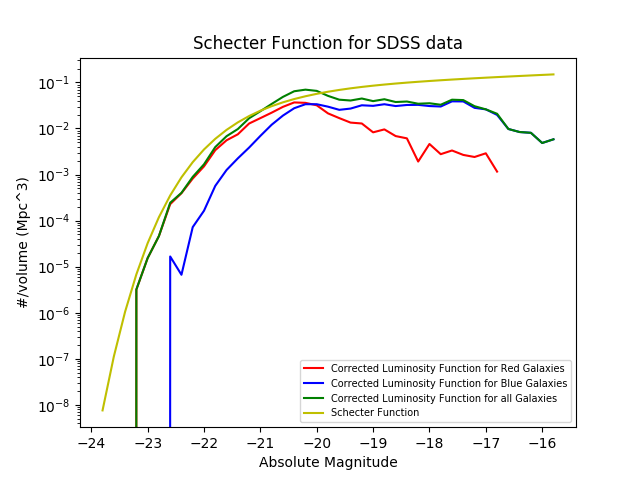
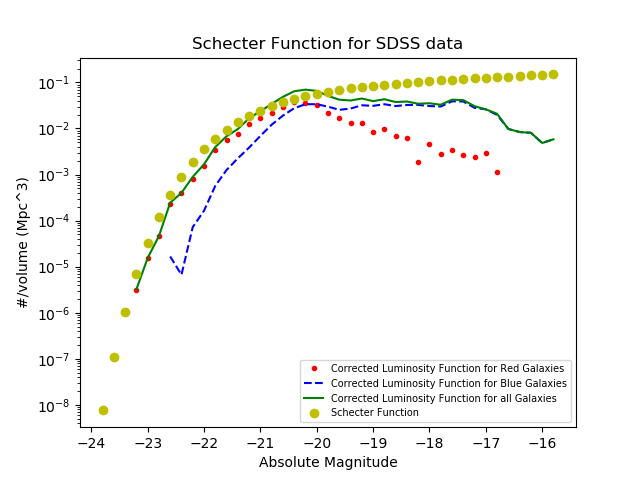
graph colors

diff --git a/termproject.py b/termproject.py
@@ -159,8 +159,8 @@ def calcVratios(Veffs, Vmaxs):
 # raw and corrected lminosity function plot for all galaxies
 def allGalaxiesPlot(x, lumFunc, correctedLumFunc):
 	plt.clf()
-	plt.plot(x, lumFunc, "r", label="Raw Luminosity Function")
-	plt.plot(x, correctedLumFunc, "b", label="Corrected Luminosity Function")
+	plt.plot(x, lumFunc, "c--", label="Raw Luminosity Function")
+	plt.plot(x, correctedLumFunc, "g", label="Corrected Luminosity Function")
 	plt.legend(prop={'size': 7})
 	plt.yscale('log')
 	plt.xlabel("Absolute Magnitude")
@@ -172,8 +172,8 @@ def allGalaxiesPlot(x, lumFunc, correctedLumFunc):
 def redBluePlot(x, correctedLumFunc, x1, redLumFunc, x2, blueLumFunc):
 	print("redblue")
 	plt.clf()
-	plt.plot(x1, redLumFunc, "r", label="Corrected Luminosity Function for Red Galaxies")
-	plt.plot(x2, blueLumFunc, "b", label="Corrected Luminosity Function for Blue Galaxies")
+	plt.plot(x1, redLumFunc, "r.", label="Corrected Luminosity Function for Red Galaxies")
+	plt.plot(x2, blueLumFunc, "b--", label="Corrected Luminosity Function for Blue Galaxies")
 	plt.plot(x, correctedLumFunc, "g", label="Corrected Luminosity Function for all Galaxies")
 	plt.legend(prop={'size': 7})
 	plt.yscale('log')
@@ -201,10 +201,10 @@ def schecter(M):
 def redBluePlotSchecter(x, correctedLumFunc, x1, redLumFunc, x2, blueLumFunc):
 	print("redblue schecter")
 	plt.clf()
-	plt.plot(x1, redLumFunc, "r", label="Corrected Luminosity Function for Red Galaxies")
-	plt.plot(x2, blueLumFunc, "b", label="Corrected Luminosity Function for Blue Galaxies")
+	plt.plot(x1, redLumFunc, "r.", label="Corrected Luminosity Function for Red Galaxies")
+	plt.plot(x2, blueLumFunc, "b--", label="Corrected Luminosity Function for Blue Galaxies")
 	plt.plot(x, correctedLumFunc, "g", label="Corrected Luminosity Function for all Galaxies")
-	plt.plot(x, schecter(x), "y", label="Schecter Function")
+	plt.plot(x, schecter(x), "yo", label="Schecter Function")
 	plt.legend(prop={'size': 7})
 	plt.yscale('log')
 	plt.xlabel("Absolute Magnitude")
